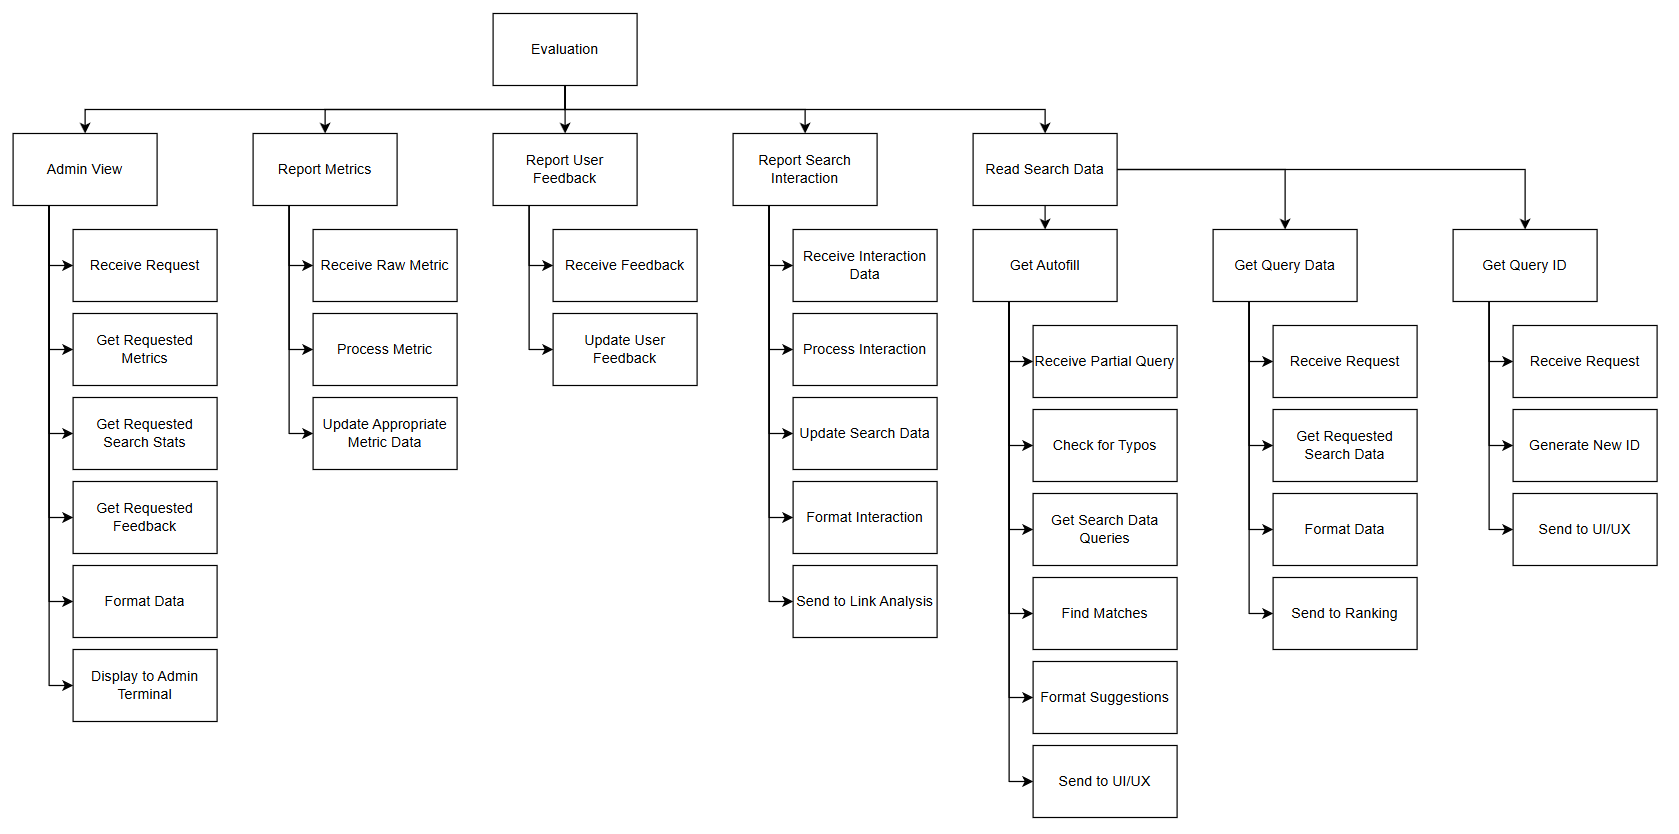
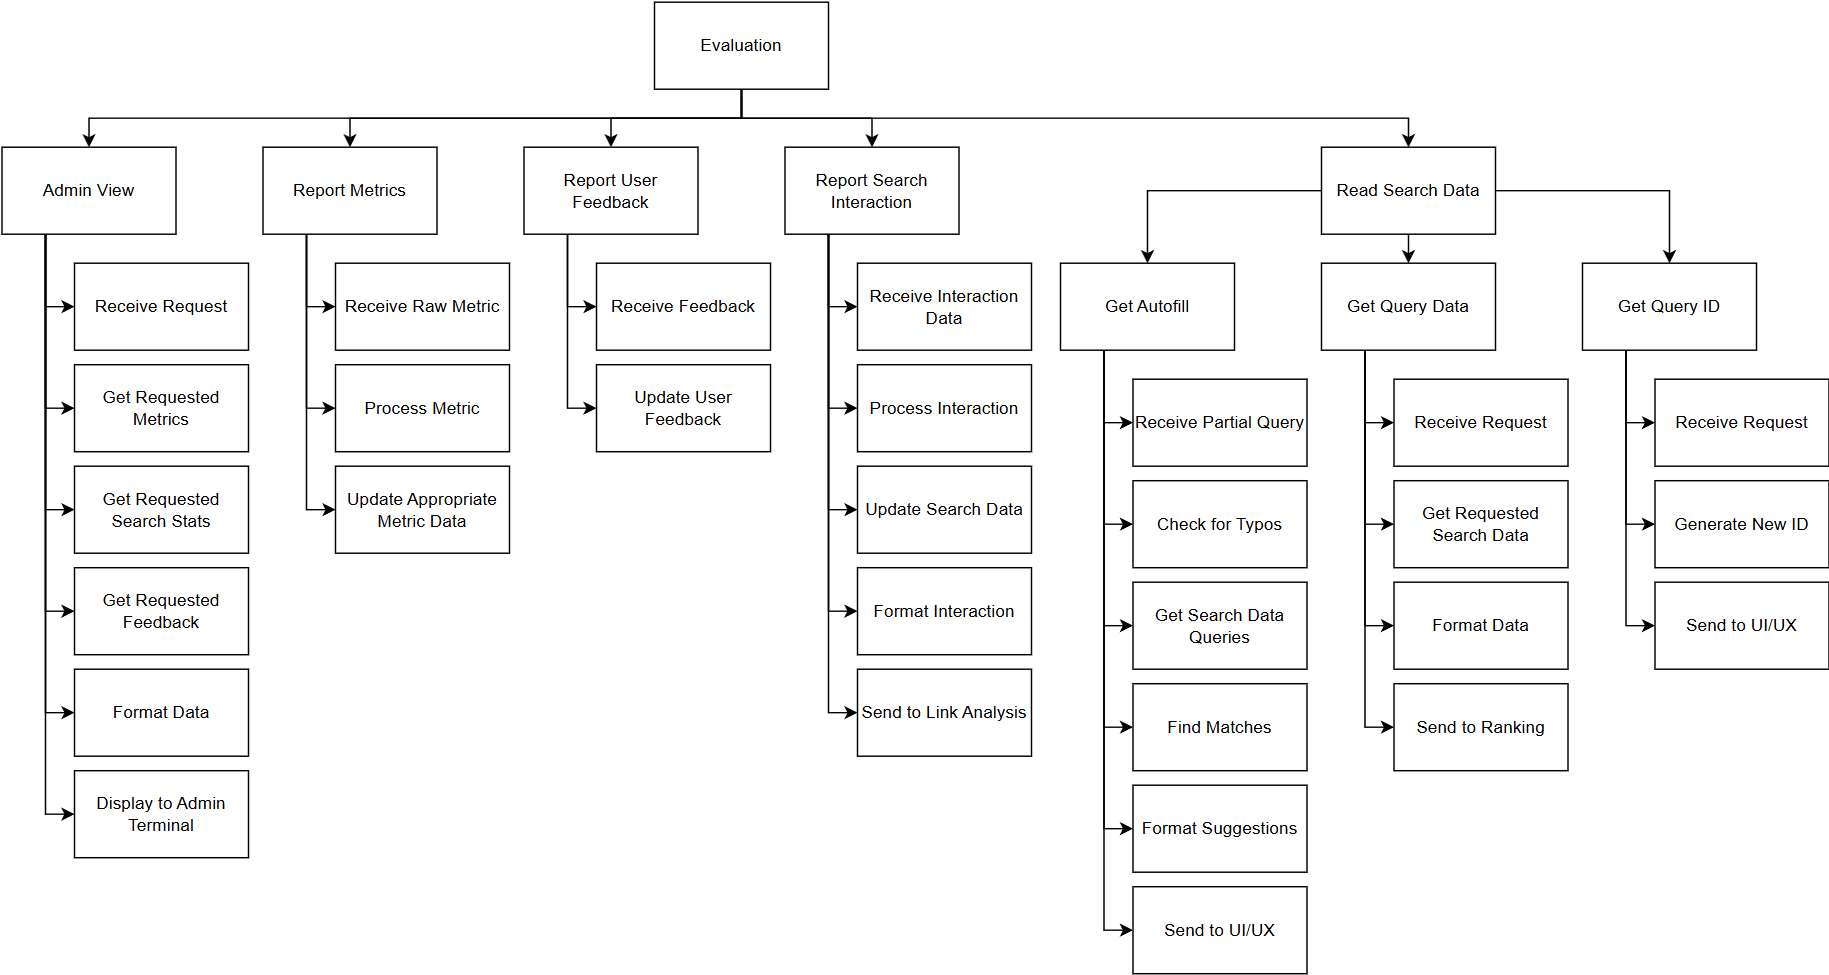
Updated design.tex and FDD

diff --git a/Deliverable 2/Subdivisions/design.tex b/Deliverable 2/Subdivisions/design.tex
@@ -71,4 +71,9 @@ The other level 1 processes are relatively trivial, however autofill deserves a 
   \includegraphics[scale=0.5]{DFDs/LowLevelDFDs-GetAutofill.drawio (2).png}
 \end{center}
 
+\subsection*{Functional Decomposition Diagram}
+\begin{center}
+  \includegraphics[width=\textwidth]{FDD/FDD.png}
+\end{center}
+
 \subsection*{Architectural Divisions}
